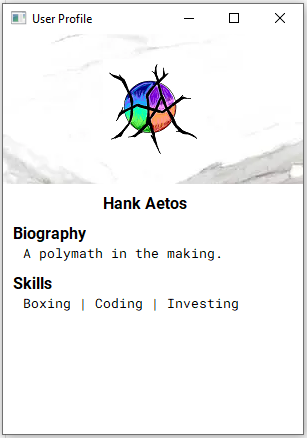
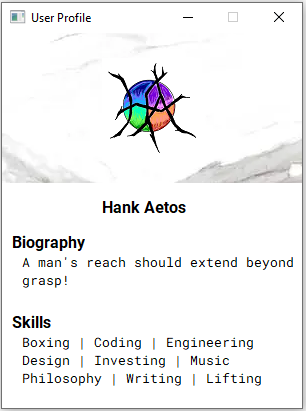
Update user_profile.py

diff --git a/user_profile.py b/user_profile.py
@@ -25,7 +25,7 @@ class UserProfileWindow(QWidget):
         self.initializeUI()
 
     def initializeUI(self):
-        self.setGeometry(100, 100, 300, 400)
+        self.setFixedSize(300, 375)
         self.setWindowTitle('User Profile')
         self.setStyleSheet('background-color: white;')
         self.displayImages()
@@ -61,29 +61,32 @@ class UserProfileWindow(QWidget):
         usr_h1_label = QLabel(self)
         usr_h1_label.setFont(h1_font)
         usr_h1_label.setText('Hank Aetos')
-        usr_h1_label.move(100, 160)
+        usr_h1_label.move(100, 165)
 
         # Biography
         bio_h1_label = QLabel(self)
         bio_h1_label.setText('Biography')
         bio_h1_label.setFont(h1_font)
-        bio_h1_label.move(10, 190)
+        bio_h1_label.move(10, 200)
 
         bio_b1_label = QLabel(self)
         bio_b1_label.setFont(b1_font)
-        bio_b1_label.setText("A polymath in the making.")
-        bio_b1_label.move(20, 210)
+        bio_b1_label.setText("A man's reach should extend beyond his grasp!")
+        bio_b1_label.setWordWrap(True)
+        bio_b1_label.move(20, 220)
 
         # Skills
         skills_h1_label = QLabel(self)
         skills_h1_label.setText('Skills')
         skills_h1_label.setFont(h1_font)
-        skills_h1_label.move(10, 240)
+        skills_h1_label.move(10, 280)
 
         skills_b1_label = QLabel(self)
         skills_b1_label.setFont(b1_font)
-        skills_b1_label.setText("Boxing | Coding | Investing")
-        skills_b1_label.move(20, 260)
+        skills_b1_label.setText("Boxing | Coding | Engineering\n"
+                                "Design | Investing | Music\n"
+                                "Philosophy | Writing | Lifting")
+        skills_b1_label.move(20, 300)
 
 
 def abspath(path):
